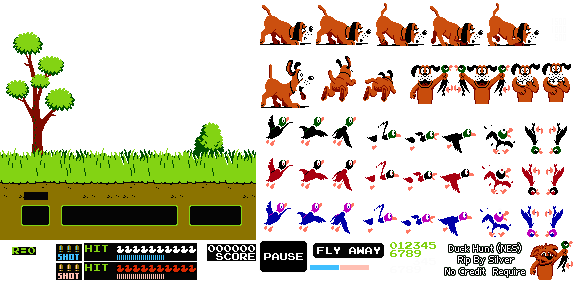
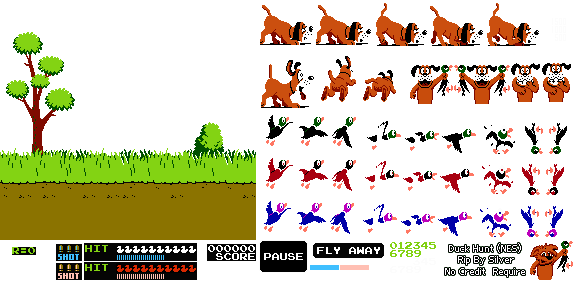
Updated the UI to be more like duck hunt graphically

Changed region(s): [[0.0296, 0.6809, 0.4443, 0.8227]]

diff --git a/FrbDemoDuckHunt/FrbDemoDuckHunt/GlobalContent.Generated.cs b/FrbDemoDuckHunt/FrbDemoDuckHunt/GlobalContent.Generated.cs
@@ -38,6 +38,7 @@ namespace FrbDemoDuckHunt
 		public static Microsoft.Xna.Framework.Media.Song RoundIntroduction { get; set; }
 		public static Microsoft.Xna.Framework.Media.Song ShotSoundEffect { get; set; }
 		public static Microsoft.Xna.Framework.Media.Song WingFlapSoundEffect { get; set; }
+		public static Microsoft.Xna.Framework.Graphics.Texture2D duckhunt2 { get; set; }
 		[System.Obsolete("Use GetFile instead")]
 		public static object GetStaticMember (string memberName)
 		{
@@ -85,6 +86,8 @@ namespace FrbDemoDuckHunt
 					return ShotSoundEffect;
 				case  "WingFlapSoundEffect":
 					return WingFlapSoundEffect;
+				case  "duckhunt2":
+					return duckhunt2;
 			}
 			return null;
 		}
@@ -134,6 +137,8 @@ namespace FrbDemoDuckHunt
 					return ShotSoundEffect;
 				case  "WingFlapSoundEffect":
 					return WingFlapSoundEffect;
+				case  "duckhunt2":
+					return duckhunt2;
 			}
 			return null;
 		}
@@ -175,6 +180,7 @@ namespace FrbDemoDuckHunt
 			RoundIntroduction = FlatRedBallServices.Load<Microsoft.Xna.Framework.Media.Song>(@"content/globalcontent/roundintroduction", ContentManagerName);
 			ShotSoundEffect = FlatRedBallServices.Load<Microsoft.Xna.Framework.Media.Song>(@"content/globalcontent/shotsoundeffect", ContentManagerName);
 			WingFlapSoundEffect = FlatRedBallServices.Load<Microsoft.Xna.Framework.Media.Song>(@"content/globalcontent/wingflapsoundeffect", ContentManagerName);
+			duckhunt2 = FlatRedBallServices.Load<Microsoft.Xna.Framework.Graphics.Texture2D>(@"content/globalcontent/duckhunt2.png", ContentManagerName);
 						IsInitialized = true;
 		}
 		public static void Reload (object whatToReload)

diff --git a/FrbDemoDuckHunt/FrbDemoDuckHunt/Entities/Duck.Generated.cs b/FrbDemoDuckHunt/FrbDemoDuckHunt/Entities/Duck.Generated.cs
@@ -242,9 +242,10 @@ namespace FrbDemoDuckHunt.Entities
 				VisibleInstance.CopyAbsoluteToRelative();
 				VisibleInstance.AttachTo(this, false);
 			}
+			VisibleInstance.PixelSize = 0.4f;
 			VisibleInstance.AnimationChains = AnimationChainListFileBlack;
 			VisibleInstance.CurrentChainName = "FlyRight";
-			VisibleInstance.PixelSize = 0.4f;
+			VisibleInstance.UseAnimationRelativePosition = false;
 			if (VisibleInstance.Parent == null)
 			{
 				VisibleInstance.Z = -1f;
@@ -253,7 +254,6 @@ namespace FrbDemoDuckHunt.Entities
 			{
 				VisibleInstance.RelativeZ = -1f;
 			}
-			VisibleInstance.UseAnimationRelativePosition = false;
 			FlatRedBall.Math.Geometry.ShapeManager.SuppressAddingOnVisibilityTrue = oldShapeManagerSuppressAdd;
 		}
 		public virtual void AddToManagersBottomUp (Layer layerToAddTo)
@@ -276,9 +276,10 @@ namespace FrbDemoDuckHunt.Entities
 			ShapeManager.AddToLayer(mCollisionCircle, layerToAddTo);
 			mCollisionCircle.Radius = 16f;
 			SpriteManager.AddToLayer(VisibleInstance, layerToAddTo);
+			VisibleInstance.PixelSize = 0.4f;
 			VisibleInstance.AnimationChains = AnimationChainListFileBlack;
 			VisibleInstance.CurrentChainName = "FlyRight";
-			VisibleInstance.PixelSize = 0.4f;
+			VisibleInstance.UseAnimationRelativePosition = false;
 			if (VisibleInstance.Parent == null)
 			{
 				VisibleInstance.Z = -1f;
@@ -287,7 +288,6 @@ namespace FrbDemoDuckHunt.Entities
 			{
 				VisibleInstance.RelativeZ = -1f;
 			}
-			VisibleInstance.UseAnimationRelativePosition = false;
 			X = oldX;
 			Y = oldY;
 			Z = oldZ;

diff --git a/FrbDemoDuckHunt/FrbDemoDuckHunt/Entities/Dog.Generated.cs b/FrbDemoDuckHunt/FrbDemoDuckHunt/Entities/Dog.Generated.cs
@@ -207,8 +207,8 @@ namespace FrbDemoDuckHunt.Entities
 				VisibleInstance.CopyAbsoluteToRelative();
 				VisibleInstance.AttachTo(this, false);
 			}
-			VisibleInstance.AnimationChains = AnimationChainListFile;
 			VisibleInstance.PixelSize = 0.5f;
+			VisibleInstance.AnimationChains = AnimationChainListFile;
 			FlatRedBall.Math.Geometry.ShapeManager.SuppressAddingOnVisibilityTrue = oldShapeManagerSuppressAdd;
 		}
 		public virtual void AddToManagersBottomUp (Layer layerToAddTo)
@@ -229,8 +229,8 @@ namespace FrbDemoDuckHunt.Entities
 			RotationY = 0;
 			RotationZ = 0;
 			SpriteManager.AddToLayer(VisibleInstance, layerToAddTo);
-			VisibleInstance.AnimationChains = AnimationChainListFile;
 			VisibleInstance.PixelSize = 0.5f;
+			VisibleInstance.AnimationChains = AnimationChainListFile;
 			X = oldX;
 			Y = oldY;
 			Z = oldZ;
